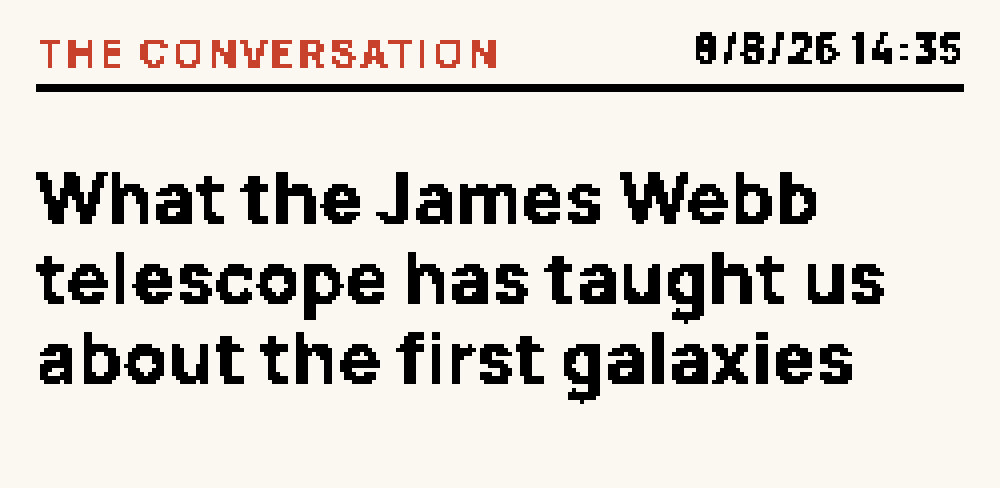
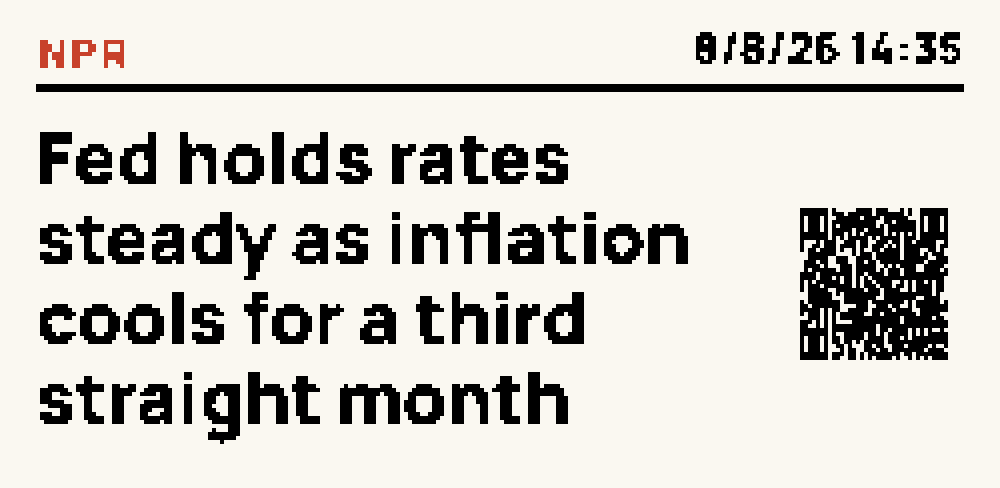
Manchete: Google News e QR na landing e na privacidade
Claude-Session: https://claude.ai/code/session_01Q7DgZV3iwqiCkkcno1S6Df

Changed region(s): [[0.031, 0.2459, 0.961, 0.9221], [0.031, 0.0615, 0.496, 0.1537]]

diff --git a/src/pages/privacy.html b/src/pages/privacy.html
@@ -45,7 +45,7 @@
     <ul>
       <li>Não pede cadastro, e-mail ou senha para funcionar.</li>
       <li>Não sobe suas faces, notas, fotos, eventos da agenda ou localização para nenhum servidor nosso.</li>
-      <li>Baixa do nosso servidor apenas conteúdo público: os rankings da face Trends, a lista e as imagens das obras da face Galeria (acervos de domínio público do Metropolitan Museum of Art e do Art Institute of Chicago) e a manchete da face Manchete (fontes públicas de licença aberta). Nesses pedidos não vai nenhum dado seu além do país escolhido e da data.</li>
+      <li>Baixa do nosso servidor apenas conteúdo público: os rankings da face Trends, a lista e as imagens das obras da face Galeria (acervos de domínio público do Metropolitan Museum of Art e do Art Institute of Chicago) e a manchete da face Manchete (RSS do Google News, com link para a notícia). Nesses pedidos não vai nenhum dado seu além do país escolhido e da data.</li>
       <li>Não usa rastreadores de publicidade nem vende dados.</li>
     </ul>
 
@@ -109,7 +109,7 @@
     <ul>
       <li>It does not require sign-up, an e-mail address or a password to work.</li>
       <li>It does not upload your faces, notes, photos, calendar events or location to any server of ours.</li>
-      <li>It downloads only public content from our server: the Trends face rankings, the list and images of artworks for the Gallery face (public-domain collections of the Metropolitan Museum of Art and the Art Institute of Chicago) and the Headline face story (openly licensed public sources). Those requests carry none of your data beyond the chosen country and the date.</li>
+      <li>It downloads only public content from our server: the Trends face rankings, the list and images of artworks for the Gallery face (public-domain collections of the Metropolitan Museum of Art and the Art Institute of Chicago) and the Headline face story (Google News RSS, with a link to the article). Those requests carry none of your data beyond the chosen country and the date.</li>
       <li>It does not use advertising trackers and does not sell data.</li>
     </ul>
 
@@ -173,7 +173,7 @@
     <ul>
       <li>No pide registro, correo ni contraseña para funcionar.</li>
       <li>No sube tus caras, notas, fotos, eventos de la agenda ni ubicación a ningún servidor nuestro.</li>
-      <li>Descarga de nuestro servidor solo contenido público: los rankings de la cara Trends, la lista e imágenes de las obras de la cara Galería (colecciones de dominio público del Metropolitan Museum of Art y del Art Institute of Chicago) y el titular de la cara Titular (fuentes públicas con licencia abierta). En esas peticiones no va ningún dato tuyo más allá del país elegido y la fecha.</li>
+      <li>Descarga de nuestro servidor solo contenido público: los rankings de la cara Trends, la lista e imágenes de las obras de la cara Galería (colecciones de dominio público del Metropolitan Museum of Art y del Art Institute of Chicago) y el titular de la cara Titular (RSS de Google News, con enlace a la noticia). En esas peticiones no va ningún dato tuyo más allá del país elegido y la fecha.</li>
       <li>No usa rastreadores publicitarios ni vende datos.</li>
     </ul>
 

diff --git a/src/pages/index.html b/src/pages/index.html
@@ -192,7 +192,7 @@
           <p class="tile-legenda"><span>Art</span> <span class="chip">free</span></p>
         </div>
         <div class="tile-face">
-          <img src="/assets/img/faces/en/manchete.png" alt="Headline face: the latest story from an openly licensed source for your country, with source and time" width="1000" height="488" loading="lazy">
+          <img src="/assets/img/faces/en/manchete.png" alt="Headline face: the latest Google News headline for your country, with the outlet, the time and a QR code that opens the story" width="1000" height="488" loading="lazy">
           <p class="tile-legenda"><span>Headline</span></p>
         </div>
         <div class="tile-face">
@@ -425,7 +425,7 @@
           <p class="tile-legenda"><span>Arte</span> <span class="chip">grátis</span></p>
         </div>
         <div class="tile-face">
-          <img src="/assets/img/faces/pt/manchete.png" alt="Face Manchete: a notícia mais recente de uma fonte de licença aberta do seu país, com a fonte e a hora" width="1000" height="488" loading="lazy">
+          <img src="/assets/img/faces/pt/manchete.png" alt="Face Manchete: a manchete mais recente do Google News do seu país, com o veículo, a hora e um QR que abre a notícia" width="1000" height="488" loading="lazy">
           <p class="tile-legenda"><span>Manchete</span></p>
         </div>
         <div class="tile-face">
@@ -658,7 +658,7 @@
           <p class="tile-legenda"><span>Arte</span> <span class="chip">gratis</span></p>
         </div>
         <div class="tile-face">
-          <img src="/assets/img/faces/es/manchete.png" alt="Cara Titular: la noticia más reciente de una fuente con licencia abierta de tu país, con la fuente y la hora" width="1000" height="488" loading="lazy">
+          <img src="/assets/img/faces/es/manchete.png" alt="Cara Titular: el titular más reciente de Google News de tu país, con el medio, la hora y un QR que abre la noticia" width="1000" height="488" loading="lazy">
           <p class="tile-legenda"><span>Titular</span></p>
         </div>
         <div class="tile-face">

diff --git a/es/privacy/index.html b/es/privacy/index.html
@@ -56,7 +56,7 @@
     <ul>
       <li>No pide registro, correo ni contraseña para funcionar.</li>
       <li>No sube tus caras, notas, fotos, eventos de la agenda ni ubicación a ningún servidor nuestro.</li>
-      <li>Descarga de nuestro servidor solo contenido público: los rankings de la cara Trends, la lista e imágenes de las obras de la cara Galería (colecciones de dominio público del Metropolitan Museum of Art y del Art Institute of Chicago) y el titular de la cara Titular (fuentes públicas con licencia abierta). En esas peticiones no va ningún dato tuyo más allá del país elegido y la fecha.</li>
+      <li>Descarga de nuestro servidor solo contenido público: los rankings de la cara Trends, la lista e imágenes de las obras de la cara Galería (colecciones de dominio público del Metropolitan Museum of Art y del Art Institute of Chicago) y el titular de la cara Titular (RSS de Google News, con enlace a la noticia). En esas peticiones no va ningún dato tuyo más allá del país elegido y la fecha.</li>
       <li>No usa rastreadores publicitarios ni vende datos.</li>
     </ul>
 

diff --git a/privacy/index.html b/privacy/index.html
@@ -53,7 +53,7 @@
     <ul>
       <li>It does not require sign-up, an e-mail address or a password to work.</li>
       <li>It does not upload your faces, notes, photos, calendar events or location to any server of ours.</li>
-      <li>It downloads only public content from our server: the Trends face rankings, the list and images of artworks for the Gallery face (public-domain collections of the Metropolitan Museum of Art and the Art Institute of Chicago) and the Headline face story (openly licensed public sources). Those requests carry none of your data beyond the chosen country and the date.</li>
+      <li>It downloads only public content from our server: the Trends face rankings, the list and images of artworks for the Gallery face (public-domain collections of the Metropolitan Museum of Art and the Art Institute of Chicago) and the Headline face story (Google News RSS, with a link to the article). Those requests carry none of your data beyond the chosen country and the date.</li>
       <li>It does not use advertising trackers and does not sell data.</li>
     </ul>
 

diff --git a/pt/privacy/index.html b/pt/privacy/index.html
@@ -50,7 +50,7 @@
     <ul>
       <li>Não pede cadastro, e-mail ou senha para funcionar.</li>
       <li>Não sobe suas faces, notas, fotos, eventos da agenda ou localização para nenhum servidor nosso.</li>
-      <li>Baixa do nosso servidor apenas conteúdo público: os rankings da face Trends, a lista e as imagens das obras da face Galeria (acervos de domínio público do Metropolitan Museum of Art e do Art Institute of Chicago) e a manchete da face Manchete (fontes públicas de licença aberta). Nesses pedidos não vai nenhum dado seu além do país escolhido e da data.</li>
+      <li>Baixa do nosso servidor apenas conteúdo público: os rankings da face Trends, a lista e as imagens das obras da face Galeria (acervos de domínio público do Metropolitan Museum of Art e do Art Institute of Chicago) e a manchete da face Manchete (RSS do Google News, com link para a notícia). Nesses pedidos não vai nenhum dado seu além do país escolhido e da data.</li>
       <li>Não usa rastreadores de publicidade nem vende dados.</li>
     </ul>
 

diff --git a/es/index.html b/es/index.html
@@ -203,7 +203,7 @@
           <p class="tile-legenda"><span>Arte</span> <span class="chip">gratis</span></p>
         </div>
         <div class="tile-face">
-          <img src="/assets/img/faces/es/manchete.png" alt="Cara Titular: la noticia más reciente de una fuente con licencia abierta de tu país, con la fuente y la hora" width="1000" height="488" loading="lazy">
+          <img src="/assets/img/faces/es/manchete.png" alt="Cara Titular: el titular más reciente de Google News de tu país, con el medio, la hora y un QR que abre la noticia" width="1000" height="488" loading="lazy">
           <p class="tile-legenda"><span>Titular</span></p>
         </div>
         <div class="tile-face">

diff --git a/pt/index.html b/pt/index.html
@@ -200,7 +200,7 @@
           <p class="tile-legenda"><span>Arte</span> <span class="chip">grátis</span></p>
         </div>
         <div class="tile-face">
-          <img src="/assets/img/faces/pt/manchete.png" alt="Face Manchete: a notícia mais recente de uma fonte de licença aberta do seu país, com a fonte e a hora" width="1000" height="488" loading="lazy">
+          <img src="/assets/img/faces/pt/manchete.png" alt="Face Manchete: a manchete mais recente do Google News do seu país, com o veículo, a hora e um QR que abre a notícia" width="1000" height="488" loading="lazy">
           <p class="tile-legenda"><span>Manchete</span></p>
         </div>
         <div class="tile-face">

diff --git a/index.html b/index.html
@@ -197,7 +197,7 @@
           <p class="tile-legenda"><span>Art</span> <span class="chip">free</span></p>
         </div>
         <div class="tile-face">
-          <img src="/assets/img/faces/en/manchete.png" alt="Headline face: the latest story from an openly licensed source for your country, with source and time" width="1000" height="488" loading="lazy">
+          <img src="/assets/img/faces/en/manchete.png" alt="Headline face: the latest Google News headline for your country, with the outlet, the time and a QR code that opens the story" width="1000" height="488" loading="lazy">
           <p class="tile-legenda"><span>Headline</span></p>
         </div>
         <div class="tile-face">
